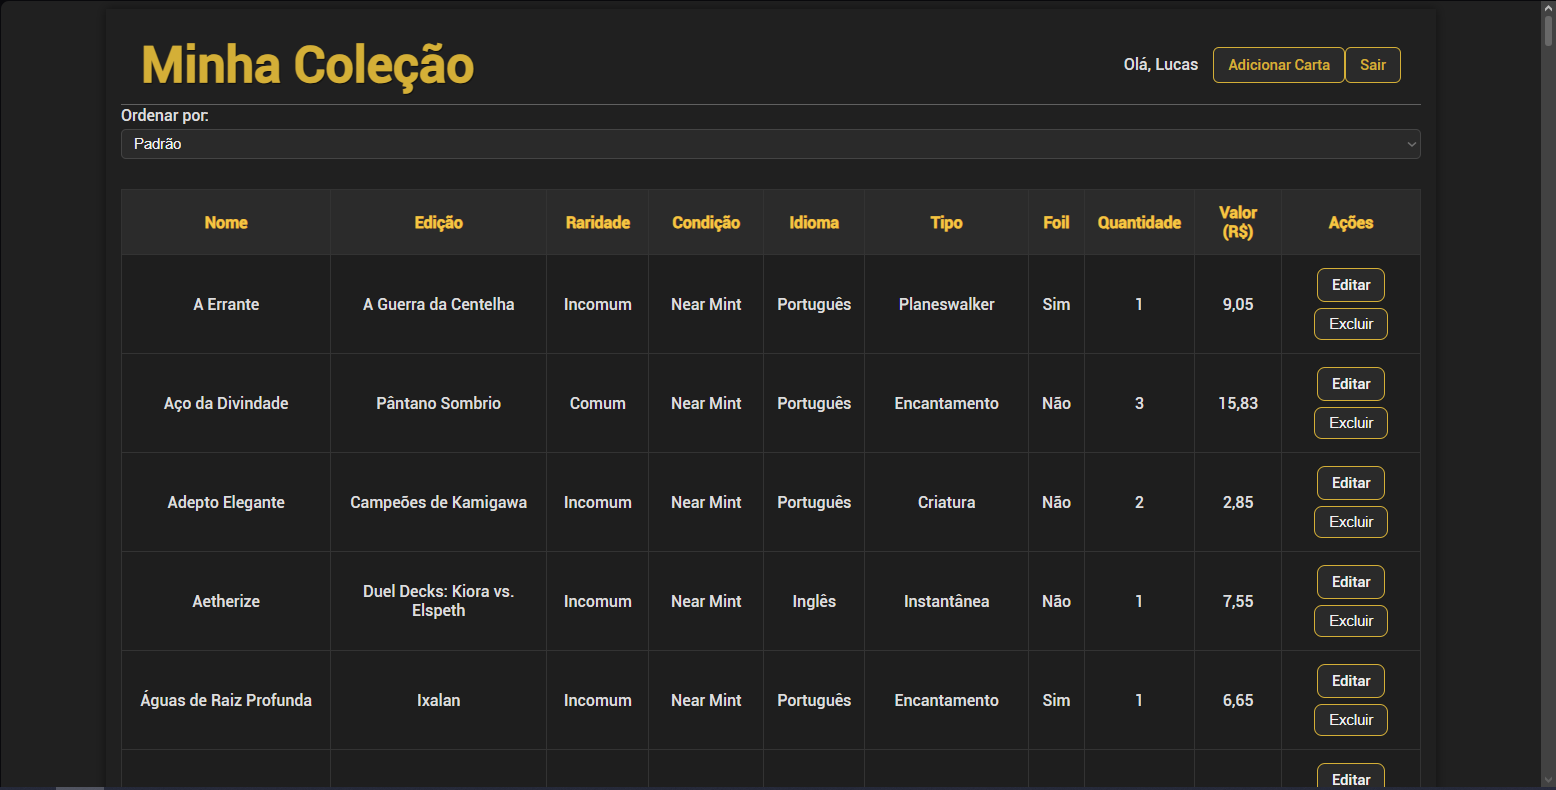
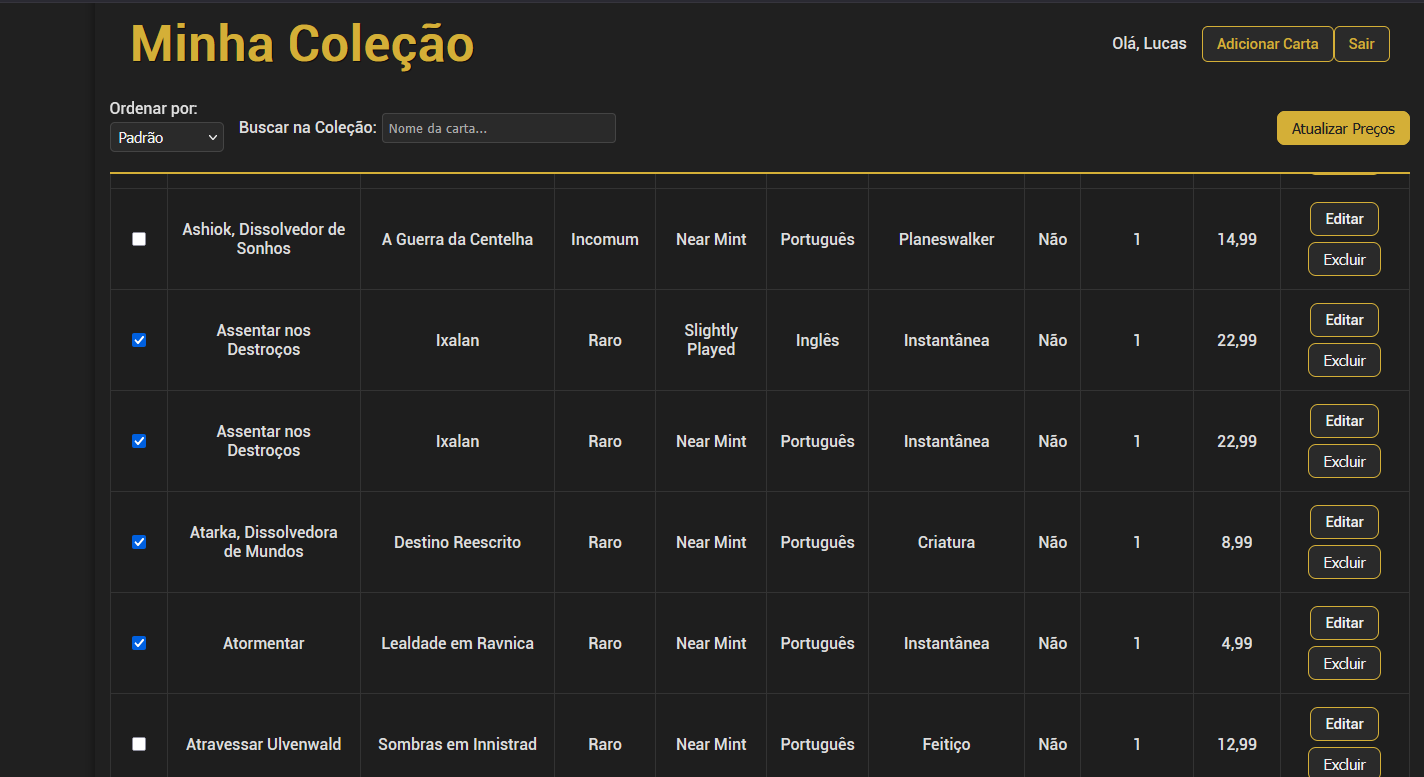
docs: add price update preview screenshot to README

diff --git a/README.md b/README.md
@@ -18,7 +18,12 @@ Um gerenciador de coleção e acervo pessoal de cartas de Magic: The Gathering m
 | :---: | :---: | :---: |
 | ![Adicionar à Coleção](_imagens/add_card.PNG) | ![Buscar Carta](_imagens/search_card.PNG) | ![Importação de Cartas](_imagens/import.PNG) |
 
+| Preview da Alteração de preços |
+| :---: |
+| ![Preview Alteração de preços](_imagens/preview_alterar_precos.PNG) |
+
 ---
+
 
 ## Funcionalidades
 
@@ -27,3 +32,4 @@ Um gerenciador de coleção e acervo pessoal de cartas de Magic: The Gathering m
 - **Tradução Inteligente (PT-BR)**: Mapeamento automático de nomes das cartas para Português (PT-BR) integrado à API.
 - **Importação em Lote**: Leitura e processamento de dados em lote a partir de arquivos Excel (`.xlsx`, `.xls`) e CSV usando PhpSpreadsheet com tela de mapeamento e preview.
 - **Filtros e Ordenação**: Filtre suas cartas por edição, raridade, tipo ou nome e ordene por valor e ordem alfabética.
+- **Atualização Automática de Preços**: Painel integrado que consulta em tempo real lojas buscando o valor exato compatível com a edição, condição (NM, SP, etc.) e status Foil da carta, exibindo um preview com as alterações antes de confirmar a gravação.
